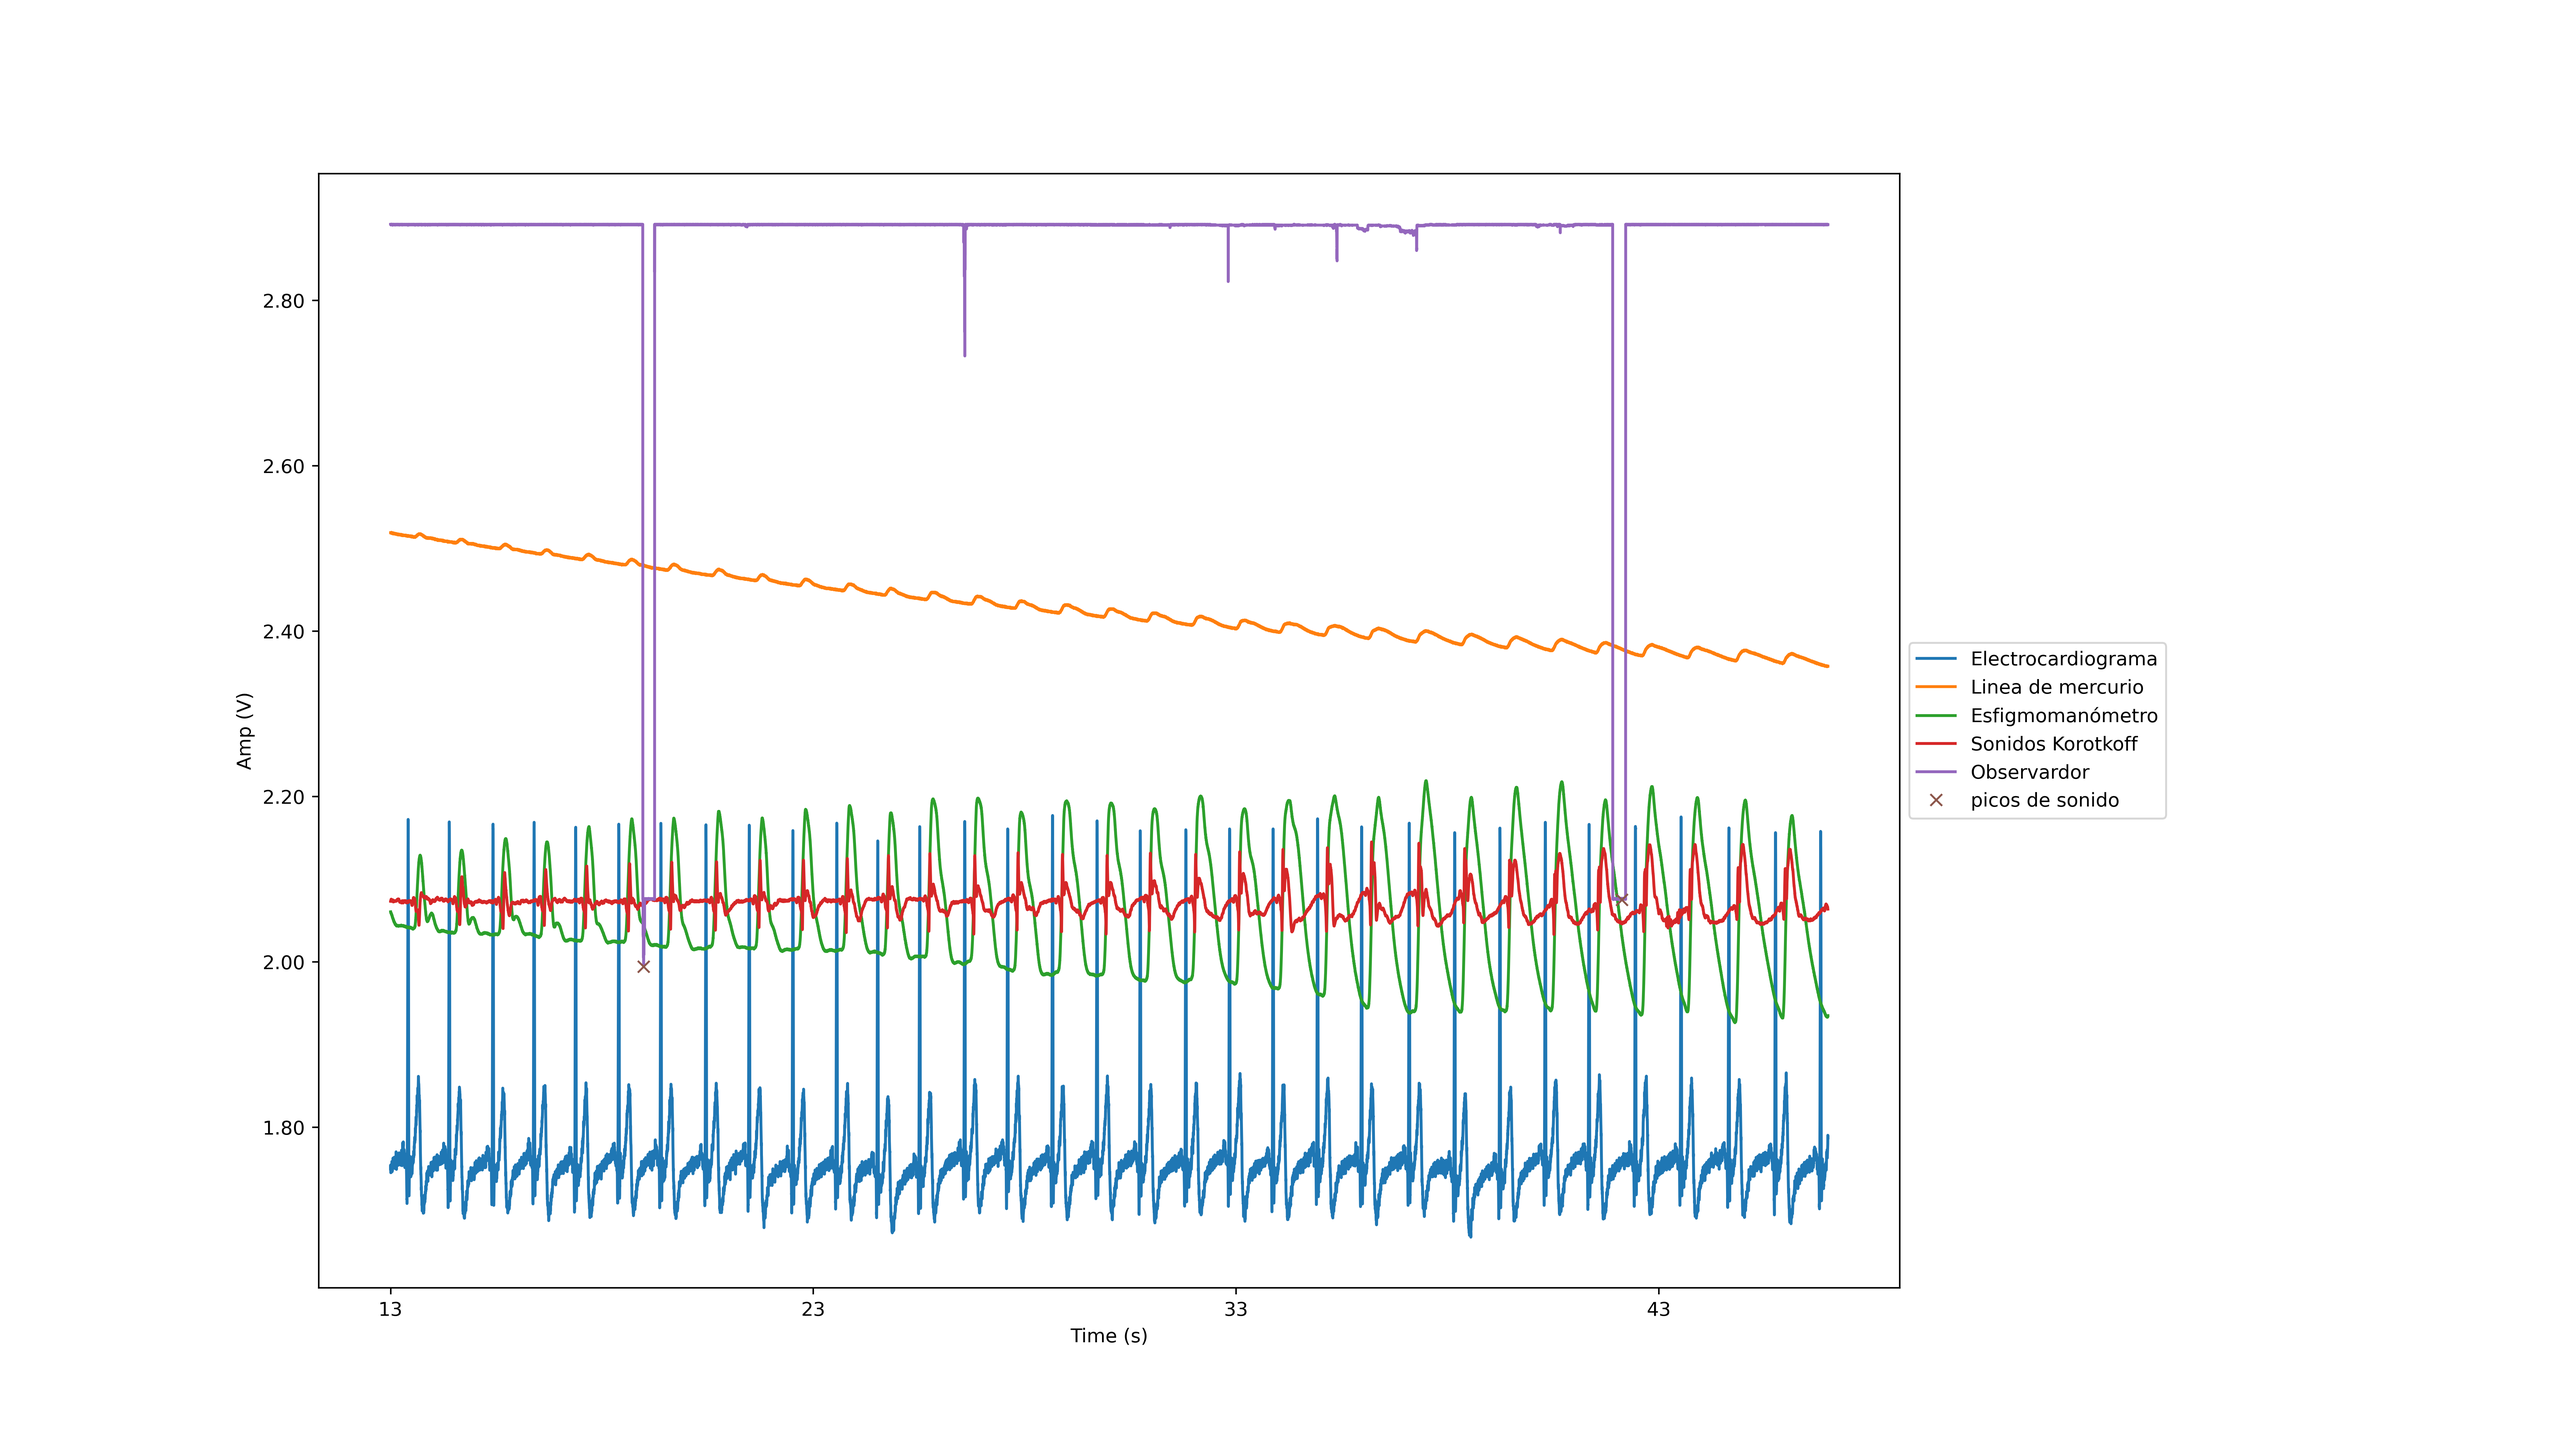
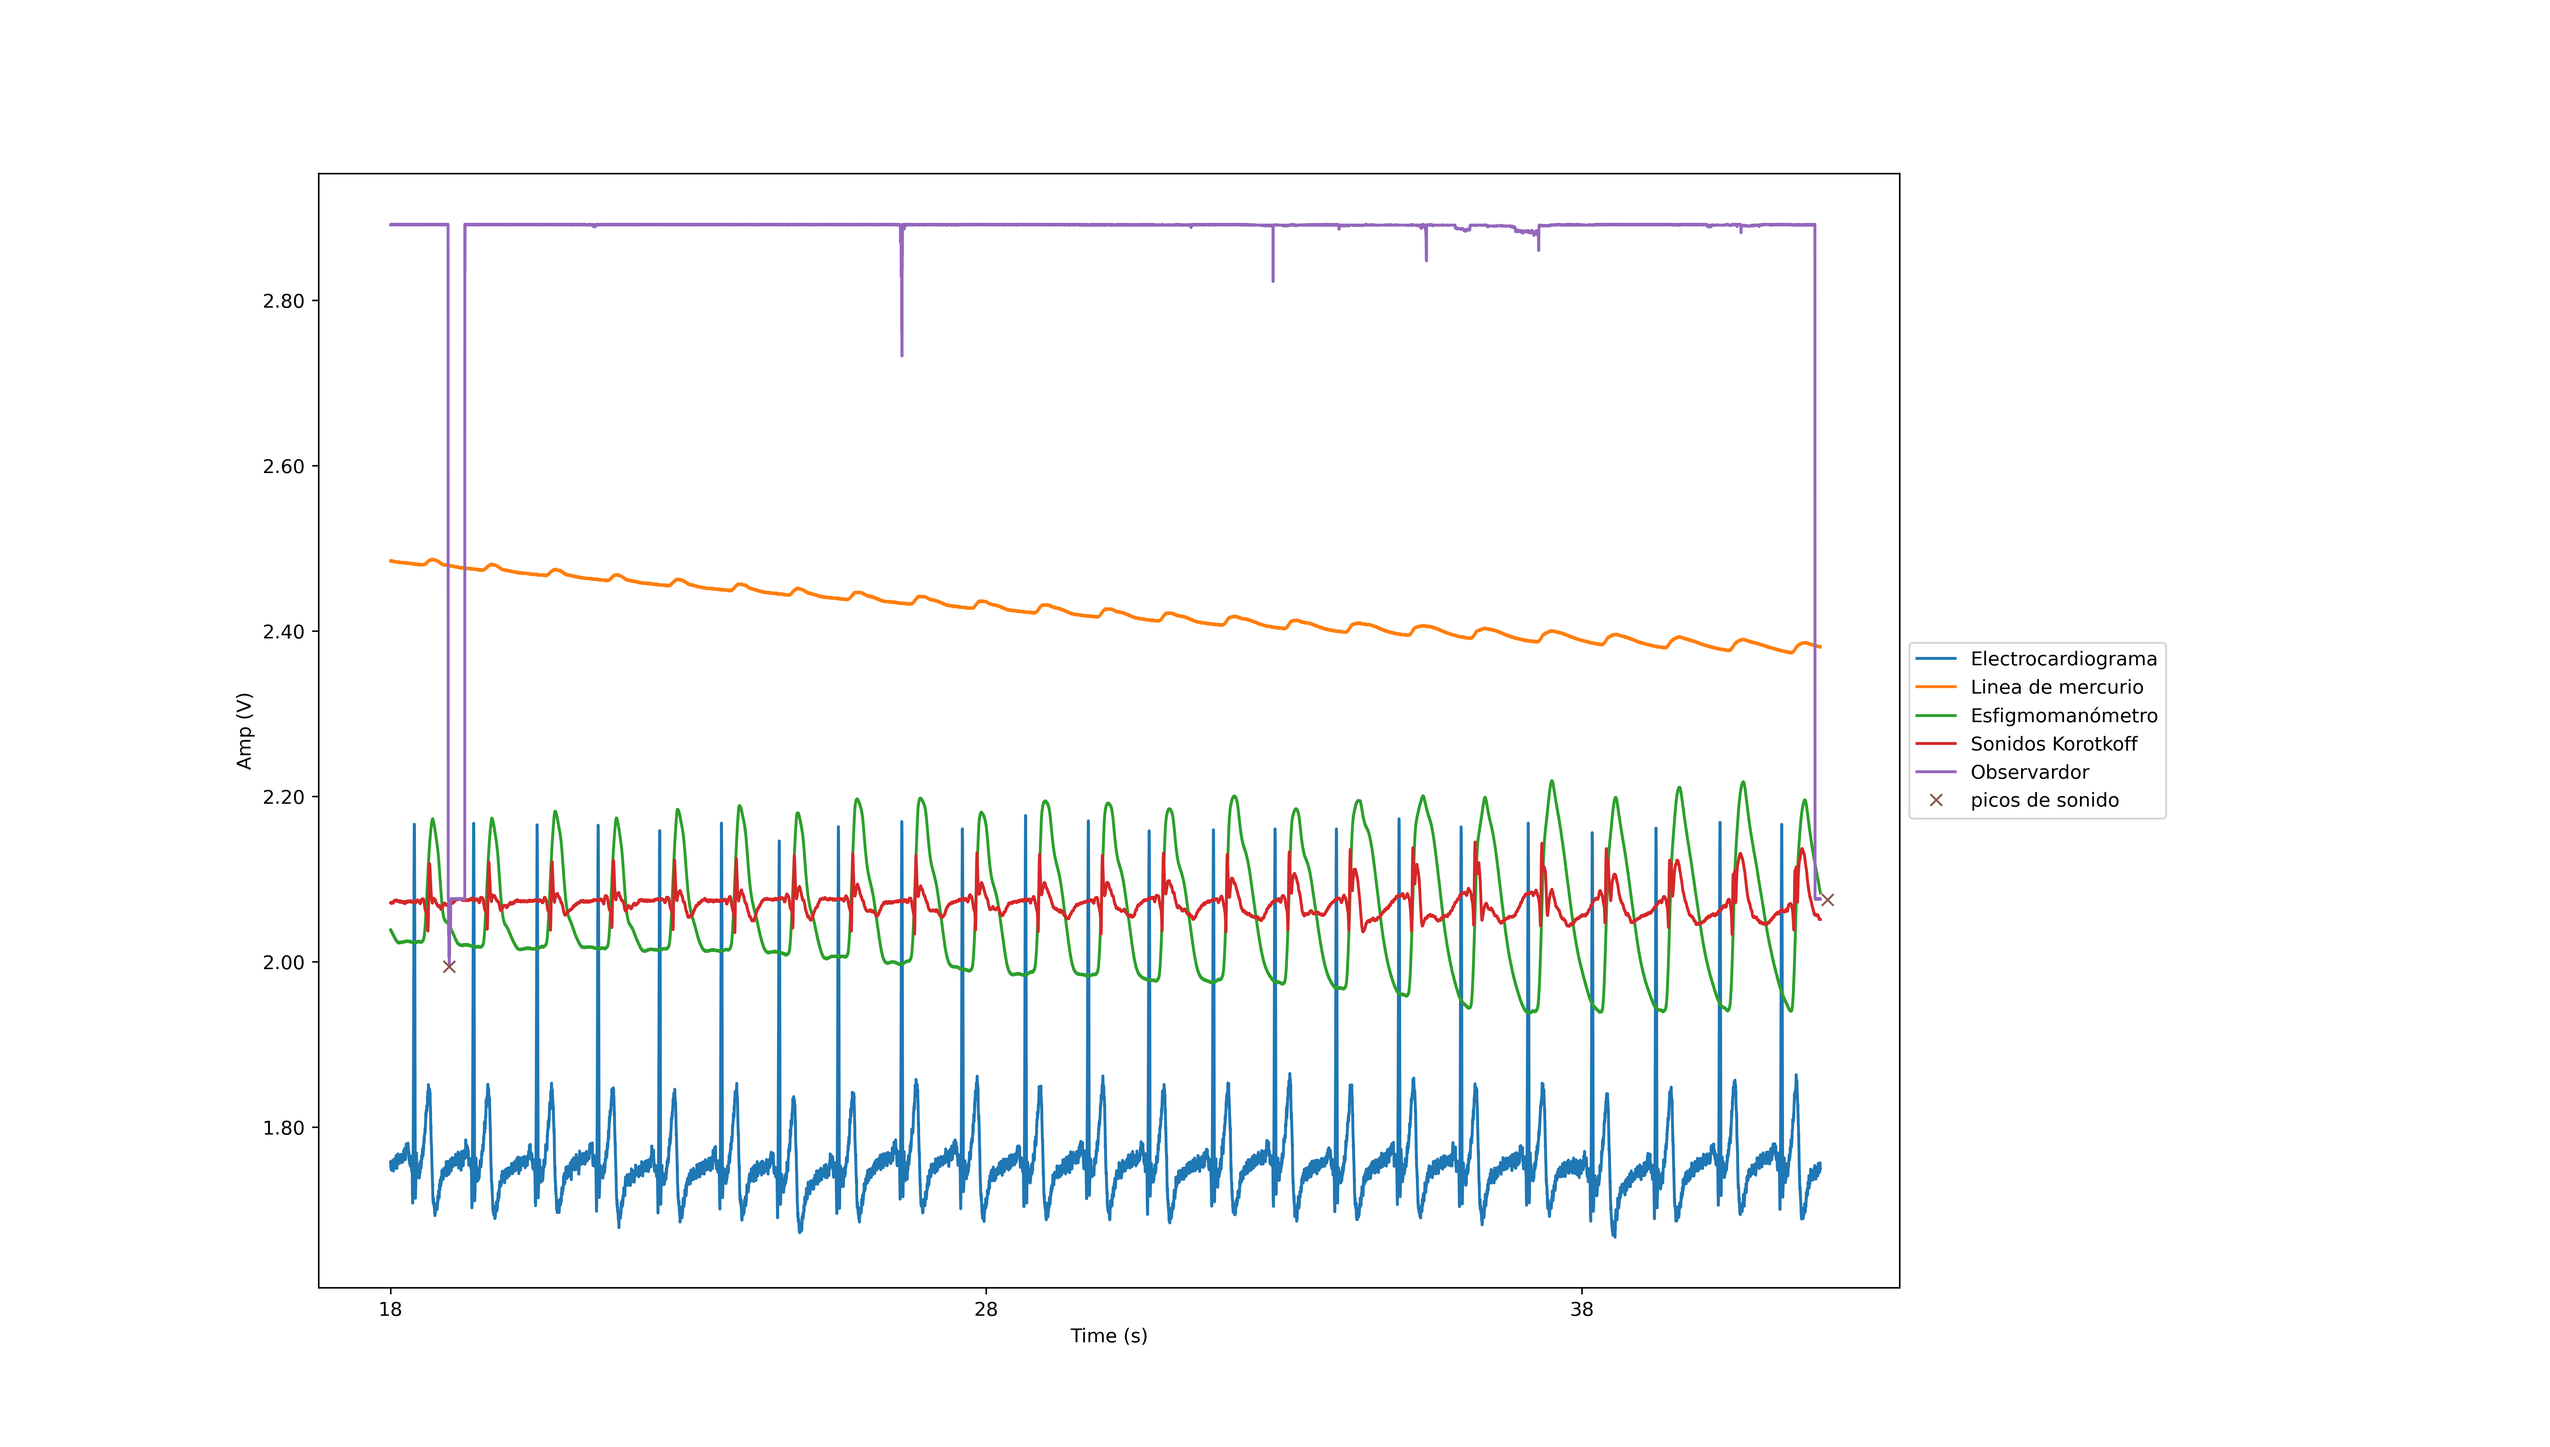
sure

diff --git a/tarea.py b/tarea.py
@@ -2,8 +2,8 @@ import numpy as np
 from matplotlib import pyplot as plt, ticker
 from scipy import signal
 
-fm = 2000
-tick = 1 / fm
+sampling_freq = 2000
+tick = 1 / sampling_freq
 
 legend_labels = ['Electrocardiograma', 'Linea de mercurio', 'Esfigmomanómetro', 'Sonidos Korotkoff', 'Observardor']
 
@@ -31,8 +31,8 @@ observerChannel = np.array(channels[-1])
 # print(observerChannel.min(), observerChannel.max())
 inverted_channel = np.negative(observerChannel)
 inverted_channel = inverted_channel + abs(inverted_channel.min())
-peaks, _ = signal.find_peaks(inverted_channel, distance=10000, height=inverted_channel.max() / 10)
-peak_y = list(map(lambda x: channels[-1][x], peaks))
+peaks, _ = signal.find_peaks(inverted_channel, distance=1000, height=inverted_channel.max() / 10)
+peak_y = list(map(lambda x: observerChannel[x], peaks))
 
 font = {
     'family': 'normal',
@@ -41,13 +41,14 @@ font = {
 }
 
 startTime = 0
-endTime = int(len(channels[0]) / fm)
+endTime = int(len(channels[0]) / sampling_freq)
 if len(peaks) > 1:
-    firstPeakTime = peaks[0] / fm
-    lastPeakTime = peaks[-1] / fm
-    timeGap = 5
-    startTime = int(firstPeakTime - 5)
-    endTime = int(lastPeakTime + 5)
+    print(f'peaks = {peaks / sampling_freq}')
+    firstPeakTime = peaks[0] / sampling_freq
+    lastPeakTime = peaks[-1] / sampling_freq
+    timeGap = 0
+    startTime = int(firstPeakTime - timeGap)
+    endTime = int(lastPeakTime + timeGap)
     print(f'first peak = {firstPeakTime}')
     print(f'last peak = {lastPeakTime}')
 
@@ -56,10 +57,8 @@ print(f'endTime = {endTime}')
 
 new_x = []
 for i in channels:
-    step = 1
-    offsets = int(fm / step)
-    new_x = np.arange(0, len(i), step)
-    new_x = new_x[startTime * offsets:endTime * offsets]
+    new_x = range(0, len(i))
+    new_x = new_x[startTime * sampling_freq:endTime * sampling_freq]
     new_y = []
     for j in new_x:
         new_y.append(i[j])
@@ -72,7 +71,7 @@ legend_labels.append('picos de sonido')
 # FuncFormatter can be used as a decorator
 @ticker.FuncFormatter
 def x_formatter(x, pos):
-    return "%d" % (int(x) / fm)
+    return "%d" % (int(x) / sampling_freq)
 
 
 # FuncFormatter can be used as a decorator
@@ -81,7 +80,8 @@ def y_formatter(y, pos):
     return "%.2f" % (int(y) / 1000)
 
 
-ax.xaxis.set_ticks(np.arange(startTime * fm, len(channels[0][:endTime * fm]), fm * 10))
+xtics = np.arange(startTime * sampling_freq, len(channels[0][:endTime * sampling_freq]), sampling_freq * 10)
+ax.xaxis.set_ticks(xtics)
 ax.yaxis.set_major_formatter(y_formatter)
 ax.xaxis.set_major_formatter(x_formatter)
 # plt.xticks(ticks)
